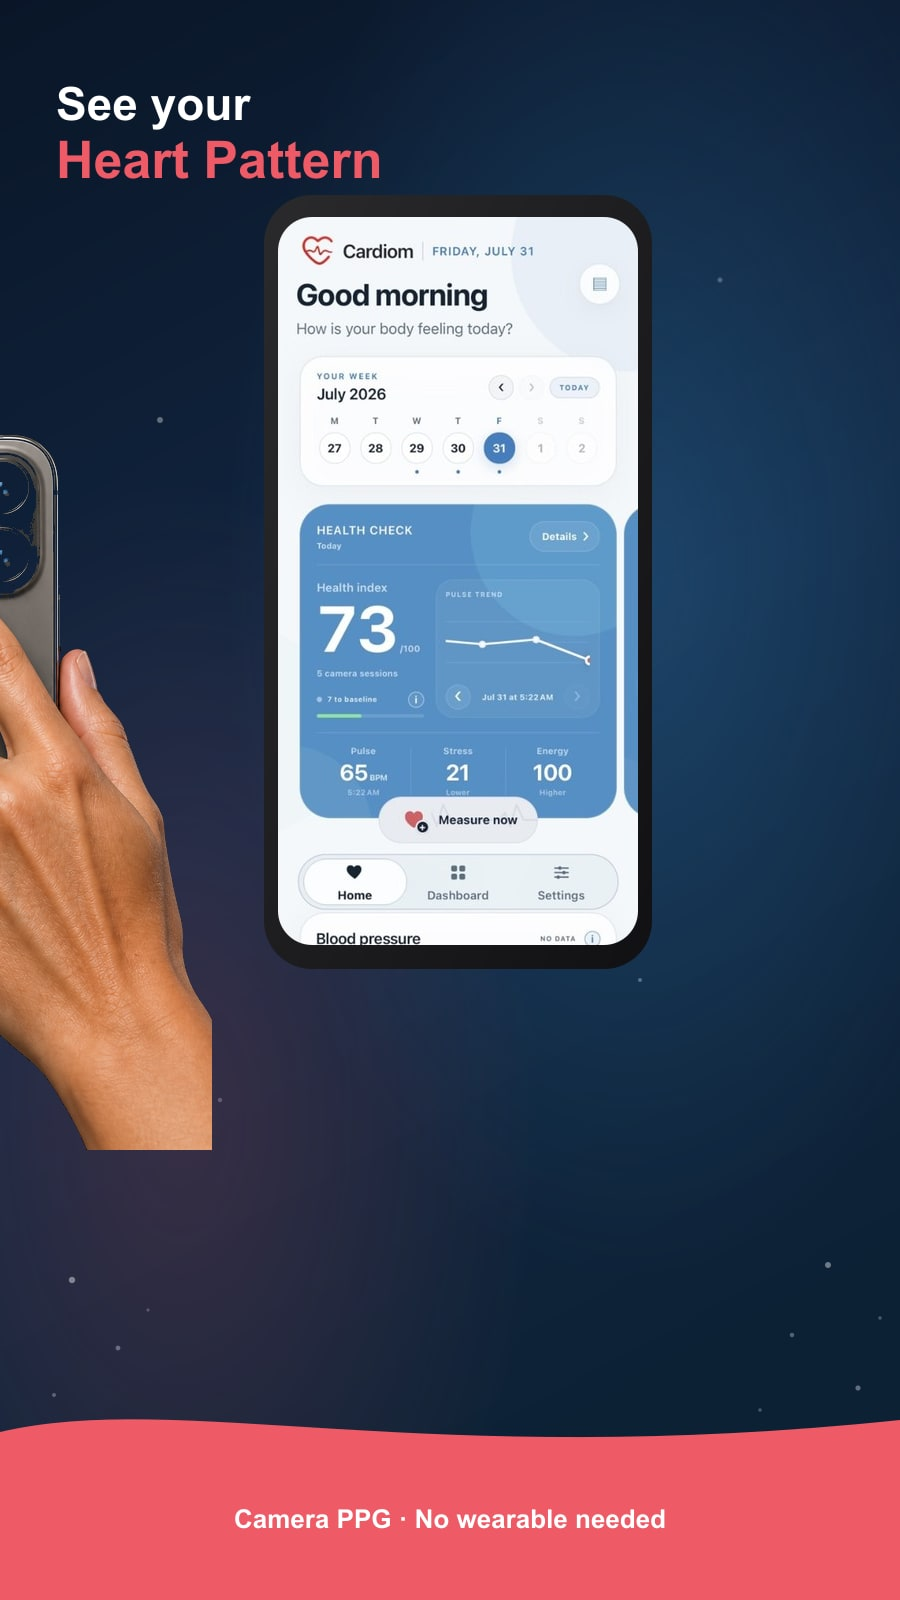
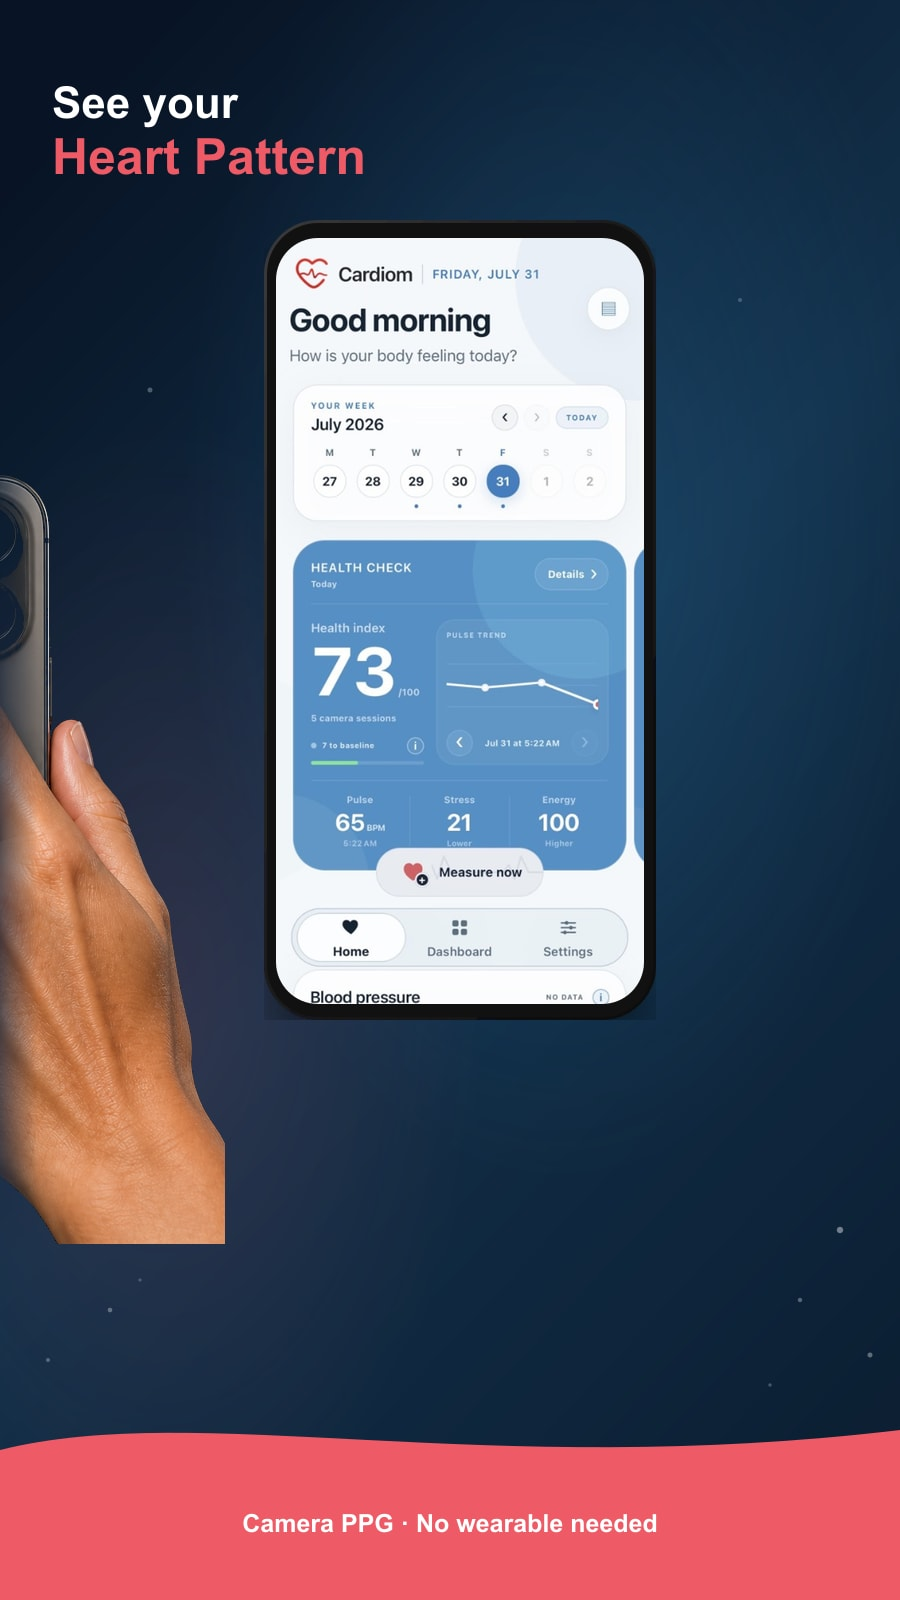
Rebuild hero as a clean CSS stage with real dashboard and soft PPG peek.
Drop the messy collage look so the centered phone stays sharp and aligned.

diff --git a/app/globals.css b/app/globals.css
@@ -357,6 +357,101 @@ img {
   min-height: 690px;
 }
 
+.hero-promo-stage {
+  position: relative;
+  z-index: 3;
+  width: min(430px, 42vw);
+  overflow: hidden;
+  border-radius: 36px;
+  background:
+    radial-gradient(circle at 70% 28%, rgba(55, 143, 202, 0.28), transparent 42%),
+    radial-gradient(circle at 18% 70%, rgba(238, 90, 101, 0.16), transparent 40%),
+    linear-gradient(165deg, #081425 0%, #12304a 52%, #0c1f33 100%);
+  box-shadow:
+    0 42px 100px rgba(18, 59, 91, 0.28),
+    0 5px 18px rgba(18, 59, 91, 0.14);
+  transform: rotate(1deg);
+}
+
+.hero-promo-kicker {
+  position: relative;
+  z-index: 2;
+  padding: 28px 26px 8px;
+  color: #fff;
+}
+
+.hero-promo-kicker span {
+  display: block;
+  font-size: 22px;
+  font-weight: 700;
+  letter-spacing: -0.03em;
+}
+
+.hero-promo-kicker strong {
+  display: block;
+  margin-top: 2px;
+  color: #ee5a65;
+  font-size: 28px;
+  font-weight: 800;
+  letter-spacing: -0.04em;
+}
+
+.hero-promo-peek {
+  position: absolute;
+  left: -8%;
+  top: 34%;
+  z-index: 1;
+  width: 46%;
+  opacity: 0.92;
+  pointer-events: none;
+  filter: drop-shadow(0 18px 30px rgba(0, 0, 0, 0.35));
+}
+
+.hero-promo-peek img {
+  display: block;
+  width: 100%;
+  height: auto;
+}
+
+.phone-stage-hero {
+  position: relative;
+  z-index: 2;
+  width: min(280px, 68%);
+  height: auto;
+  margin: 8px auto 0;
+  overflow: hidden;
+  border: 1px solid rgba(255, 255, 255, 0.12);
+  border-radius: 36px;
+  background: #111;
+  box-shadow: 0 28px 60px rgba(0, 0, 0, 0.35);
+  transform: none;
+}
+
+.phone-stage-hero::after {
+  border: 6px solid rgba(255, 255, 255, 0.08);
+}
+
+.phone-stage-hero img {
+  display: block;
+  width: 100%;
+  height: auto;
+  transform: none;
+}
+
+.hero-promo-foot {
+  position: relative;
+  z-index: 2;
+  margin-top: 22px;
+  padding: 22px 18px 26px;
+  color: #fff;
+  font-size: 13px;
+  font-weight: 700;
+  letter-spacing: 0.02em;
+  text-align: center;
+  background: #ee5a65;
+  clip-path: ellipse(120% 100% at 50% 100%);
+}
+
 .hero-promo-frame {
   position: relative;
   z-index: 3;
@@ -2282,7 +2377,8 @@ img {
     width: 340px;
   }
 
-  .hero-promo-frame {
+  .hero-promo-frame,
+  .hero-promo-stage {
     width: 340px;
     transform: none;
   }
@@ -2398,7 +2494,13 @@ img {
     border-radius: 55px;
   }
 
-  .hero-promo-frame {
+  .phone-stage-hero {
+    width: min(240px, 70%);
+    height: auto;
+  }
+
+  .hero-promo-frame,
+  .hero-promo-stage {
     width: min(330px, 78vw);
     transform: none;
   }
@@ -2616,7 +2718,13 @@ img {
     height: 500px;
   }
 
-  .hero-promo-frame {
+  .phone-stage-hero {
+    width: min(220px, 72%);
+    height: auto;
+  }
+
+  .hero-promo-frame,
+  .hero-promo-stage {
     width: min(294px, 82vw);
   }
 

diff --git a/app/page.tsx b/app/page.tsx
@@ -193,14 +193,31 @@ export default function Home() {
             <div className="hero-product" aria-label="Cardiom app preview">
               <div className="hero-orbit orbit-one" />
               <div className="hero-orbit orbit-two" />
-              <div className="hero-promo-frame">
-                <Image
-                  src="/brand/hero-promo.jpg"
-                  alt="Cardiom home screen with camera PPG heart-rate check-in on iPhone"
-                  width={900}
-                  height={1600}
-                  priority
-                />
+              <div className="hero-promo-stage">
+                <div className="hero-promo-kicker">
+                  <span>See your</span>
+                  <strong>Heart Pattern</strong>
+                </div>
+                <div className="hero-promo-peek" aria-hidden="true">
+                  <Image
+                    src="/brand/ppg-peek.png"
+                    alt=""
+                    width={420}
+                    height={720}
+                  />
+                </div>
+                <div className="phone-stage phone-stage-hero">
+                  <Image
+                    src="/brand/app-dashboard-hero.jpg"
+                    alt="Cardiom home dashboard with Health Check and Measure now"
+                    width={860}
+                    height={1600}
+                    priority
+                  />
+                </div>
+                <div className="hero-promo-foot">
+                  Camera PPG · No wearable needed
+                </div>
               </div>
             </div>
           </div>
